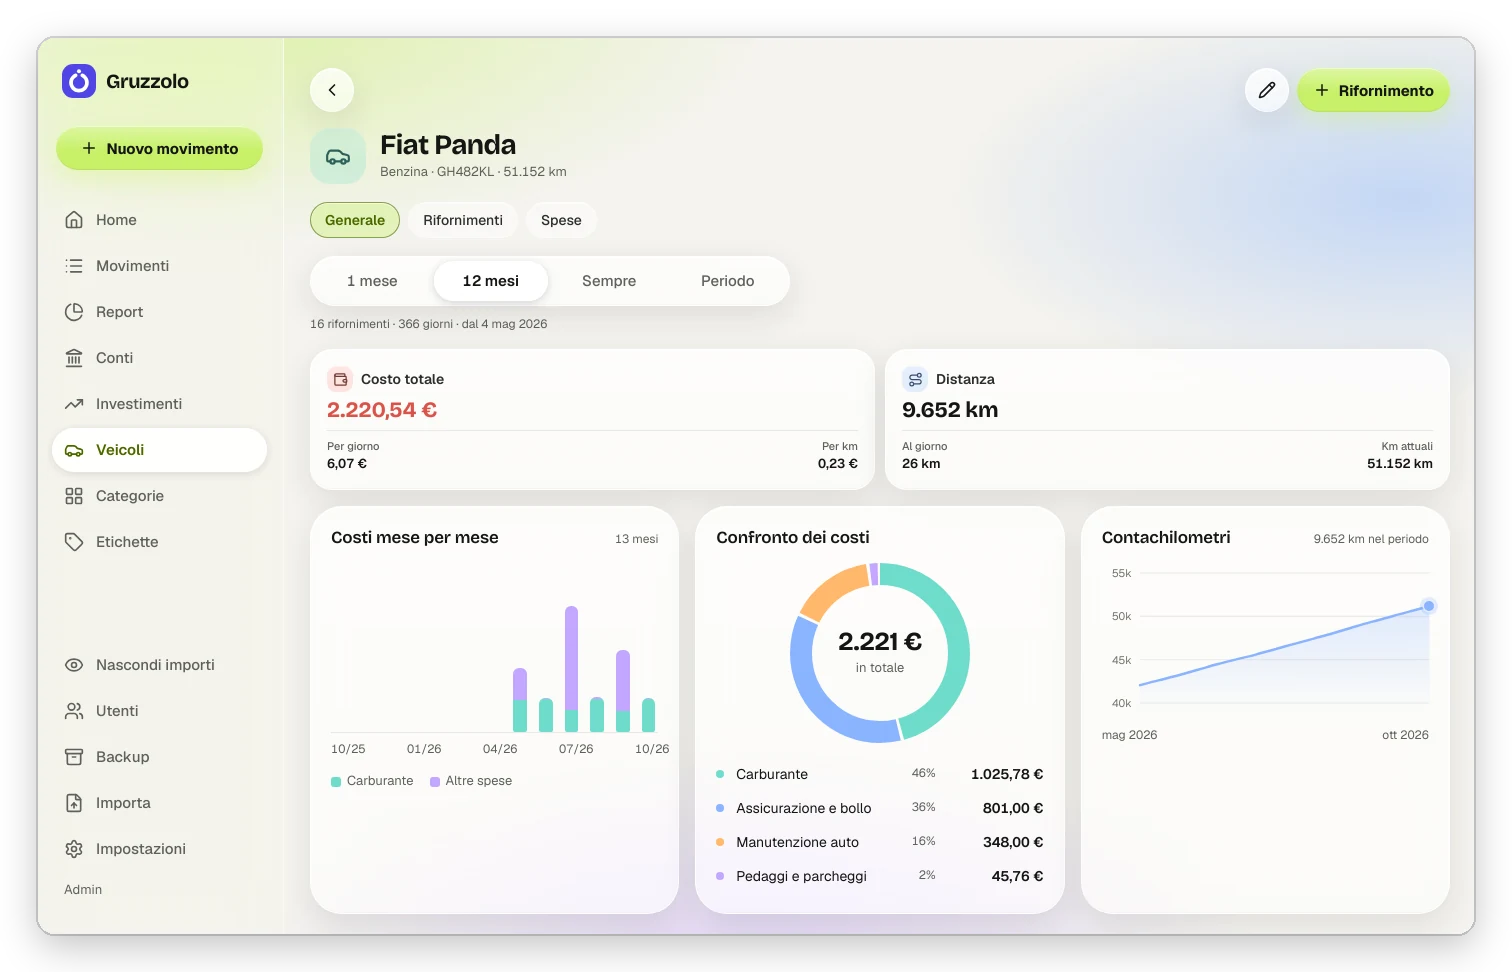
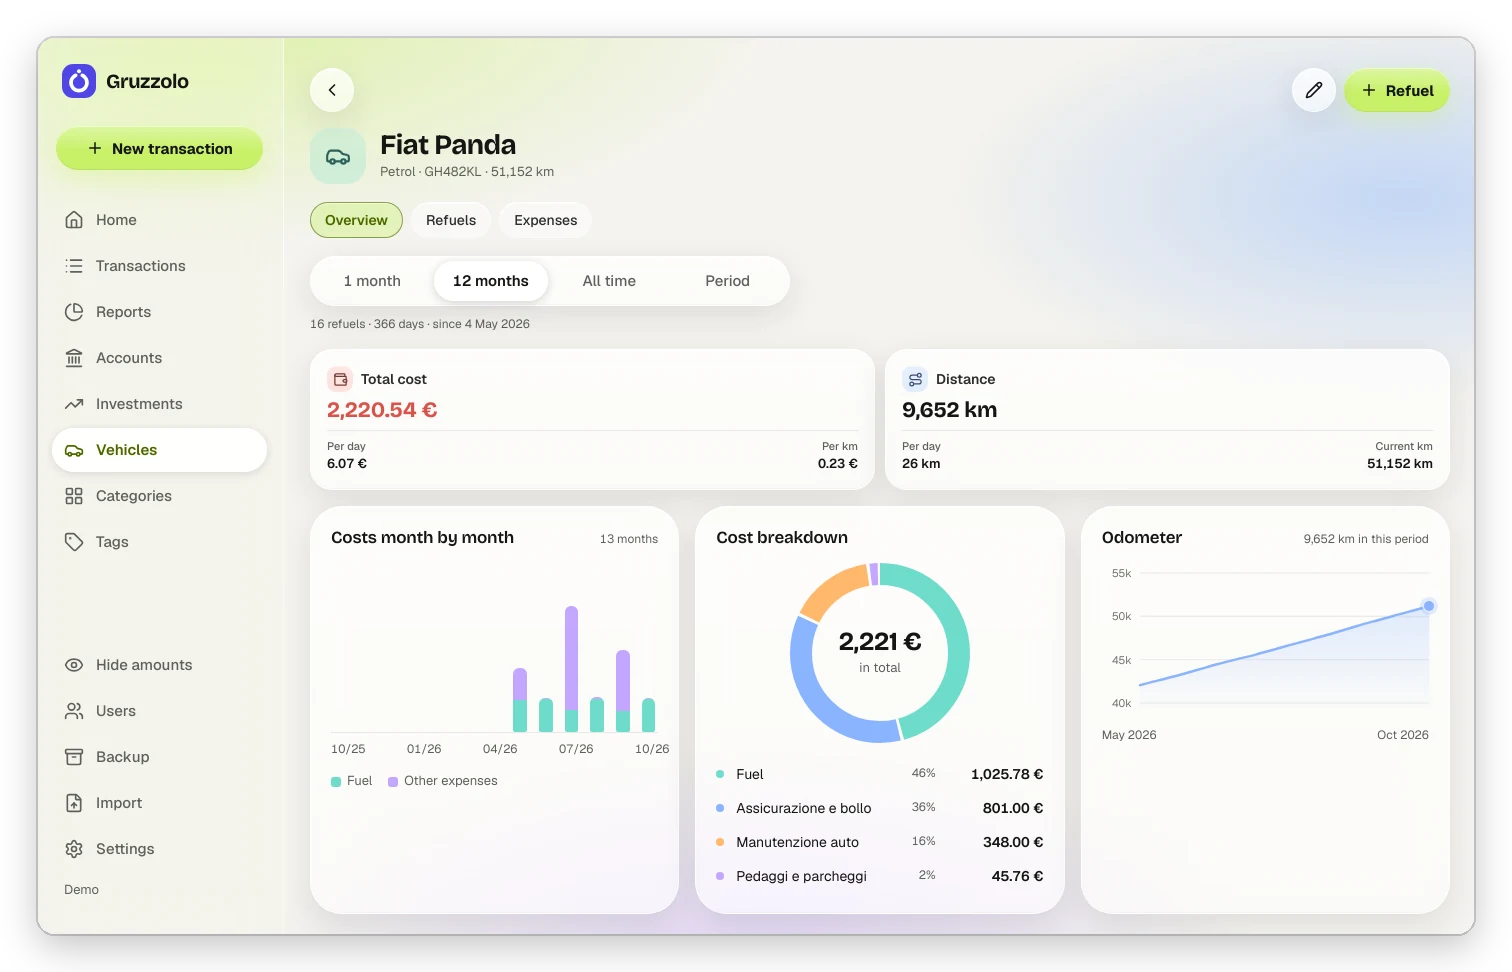
README: schermate con l'interfaccia in inglese e lingue supportate

diff --git a/README.md b/README.md
@@ -21,7 +21,7 @@
   <img src="docs/screenshots/mobile.webp" alt="Gruzzolo on a phone: home, editing a transaction with the keypad, report and car statistics">
 </p>
 
-> *Gruzzolo* is Italian for "nest egg". The interface is in Italian.
+> *Gruzzolo* is Italian for "nest egg". The interface speaks English, Italian, Spanish, German and French.
 
 ## Features
 
@@ -41,6 +41,8 @@
   restore** of the whole instance from a single file.
 - **Make it yours** — light, dark or automatic theme, classic or *Liquid Glass* style, accent colour
   and app icon of your choice, and a one-tap toggle to blur amounts when you're in public.
+- **Five languages** — English, Italian, Spanish, German and French, picked from the browser or in
+  Settings; numbers, dates and the amount keypad follow the language (`1,247.80 €`, `1.247,80 €`, `1 247,80 €`).
 - **PWA** — add it to your home screen and use it like a native app, with pull-to-refresh.
 
 ## Screenshots
@@ -72,7 +74,7 @@
   <img src="docs/screenshots/scuro.webp" alt="Home, report and vehicle in the dark theme">
 </p>
 
-<sub>Screenshots show the sample data from `app:demo` in the Liquid Glass style.</sub>
+<sub>Screenshots show the English interface in the Liquid Glass style, with the sample data from `app:demo` (created in Italian).</sub>
 
 ## Try it locally
 
@@ -202,6 +204,13 @@ download the backup from one and restore it on the other.
 - **Hidden amounts**: the eye icon (Home, Transactions, Reports, Accounts, Investments, sidebar) blurs
   amounts on that device (`localStorage`). `assets/privacy.js` recognises amounts by their format
   ("1.247,80 €") and wraps them in `.money`; large balances are `.hero-amount__value`.
+- **Languages**: the Italian sentence is the translation key (`{{ 'Nuovo movimento'|trans }}`), translations
+  live in `app/translations/messages.{en,es,de,fr}.json`. The language comes from `app_user.locale` or, when
+  empty, from the browser (`LocaleSubscriber`); separators per language are in `App\Service\Language` and
+  are used by the Twig filters, `Money::parseLocal()` and `assets/i18n.js` (which also carries the few
+  strings used by scripts). Entities and static code translate through `App\Util\Trans`. Default
+  categories are created in the language of whoever creates the user; data already stored (account and
+  category names, descriptions) is never translated.
 - **Multi-user**: every table has an owner; controllers use `AppController::own()`, which returns 404
   for other users' data.
 - **Shared accounts**: the owner shares an account with other users (table `account_member`, from the
